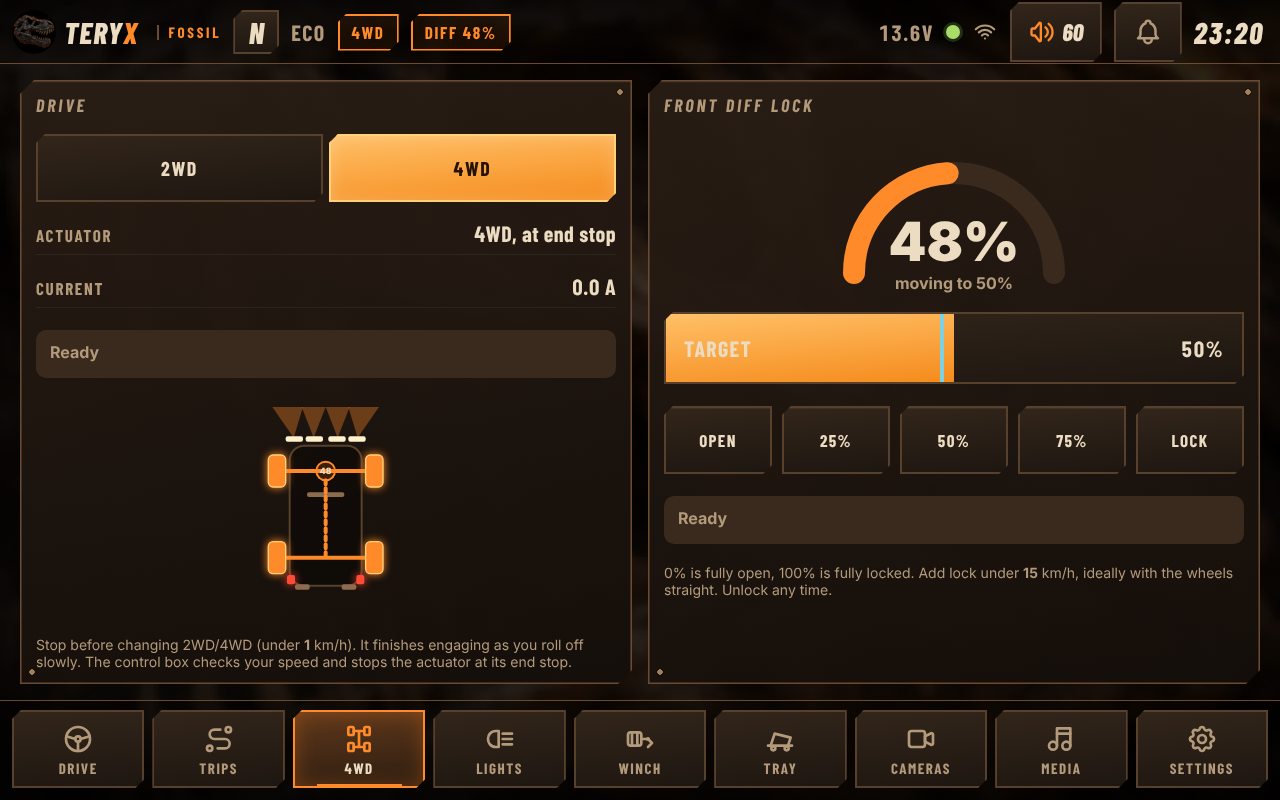
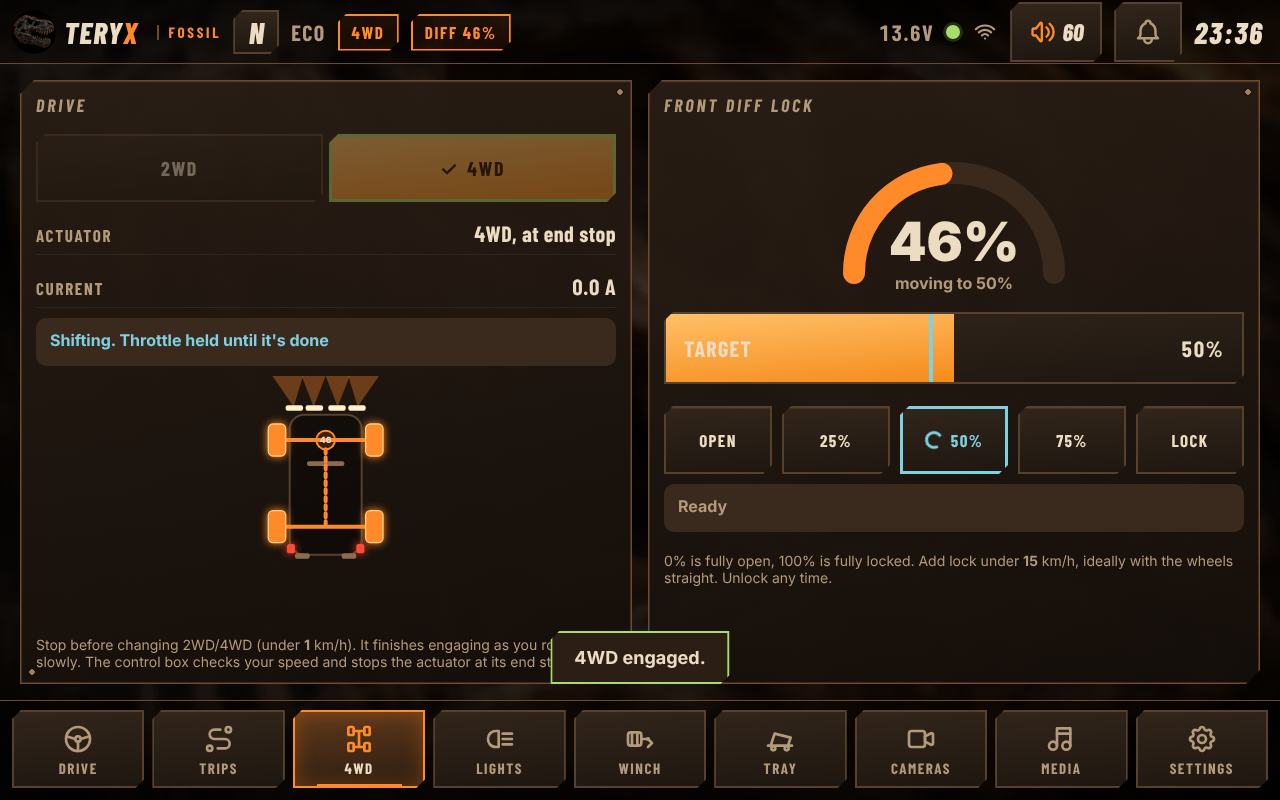
Dash: fit the 4WD screen with the new shift wait row
Claude-Session: https://claude.ai/code/session_018hTF7zxvFrcJnn86TSyBt9

diff --git a/dash/web/css/dino.css b/dash/web/css/dino.css
@@ -325,7 +325,10 @@ body.look-night .d-hero .rex img { filter: brightness(.5) contrast(1.15) sepia(.
 .light-tile { padding: 10px 12px; gap: 8px; }
 .light-tile .lt-big, .light-tile .slider { height: 72px; }
 .dt #t-veh { display: flex; align-items: center; justify-content: center; overflow: hidden; }
-.dt #t-veh .veh svg { height: 200px; width: auto; }
+.dt #t-veh .veh svg { height: 100%; max-height: 200px; width: auto; }
+.dt #t-veh { flex: 1 1 0; min-height: 90px; }
+.dt #t-veh .veh { height: 100%; display: flex; justify-content: center; }
+.dt .lockout { margin-top: 0; }
 .dt .panel.col { gap: 10px !important; }
 
 /* camera: the big rear light key */
